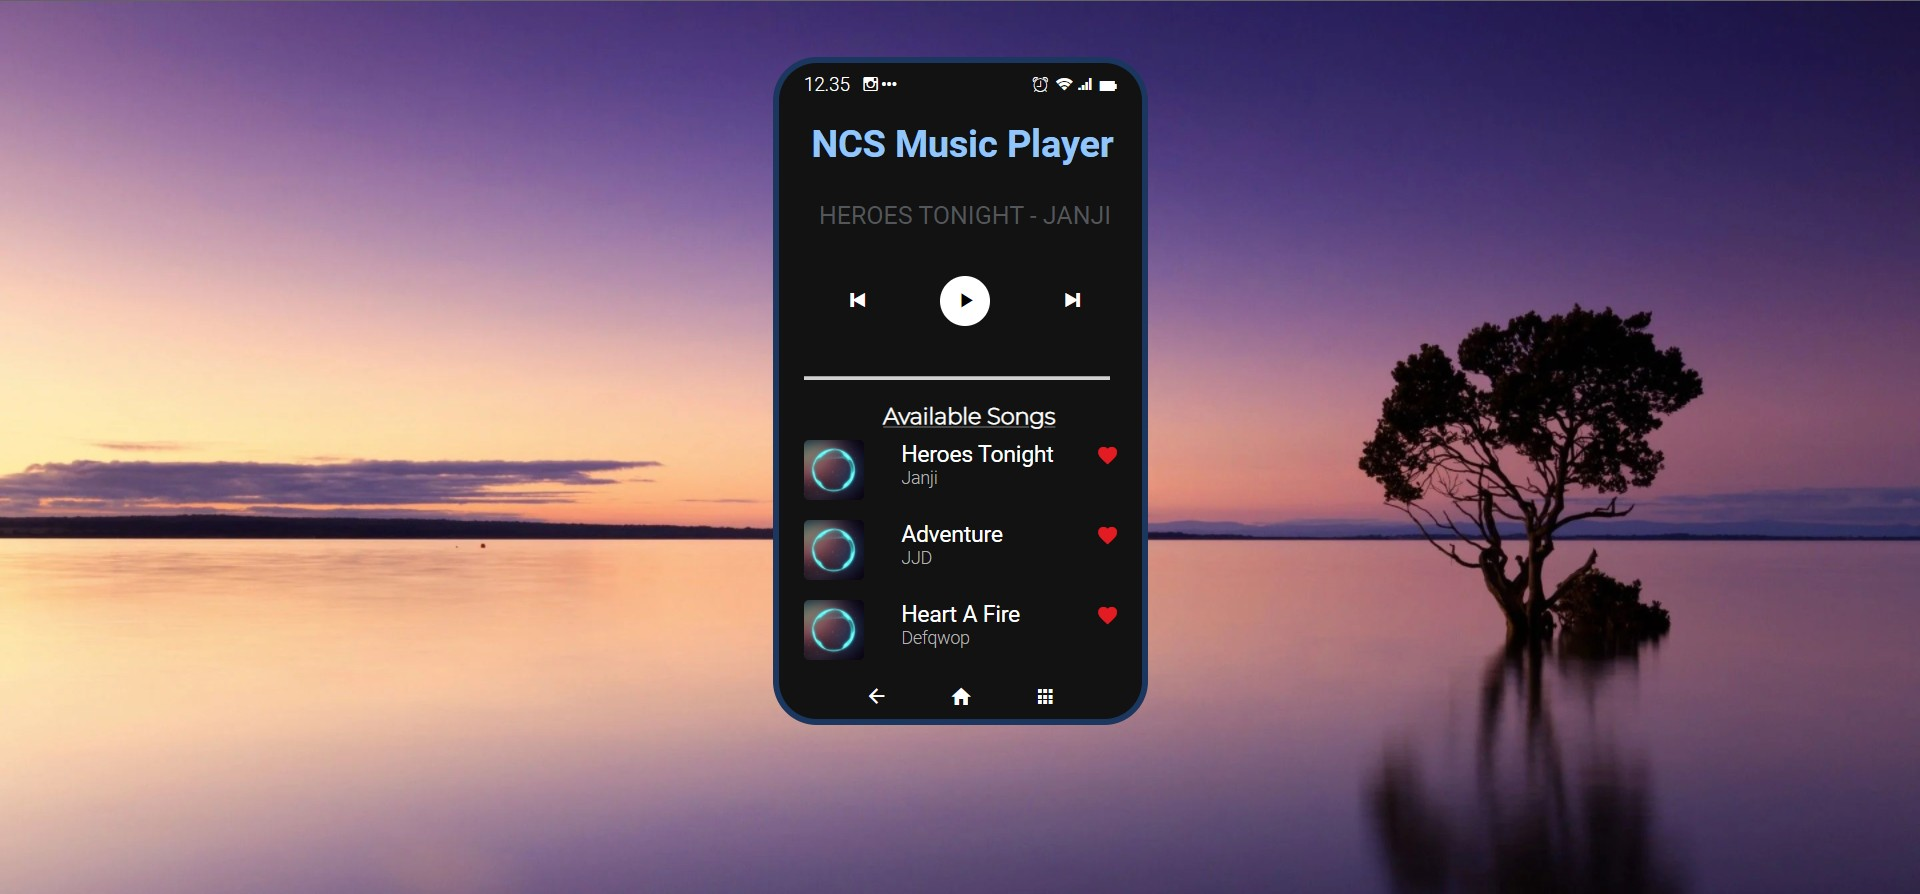
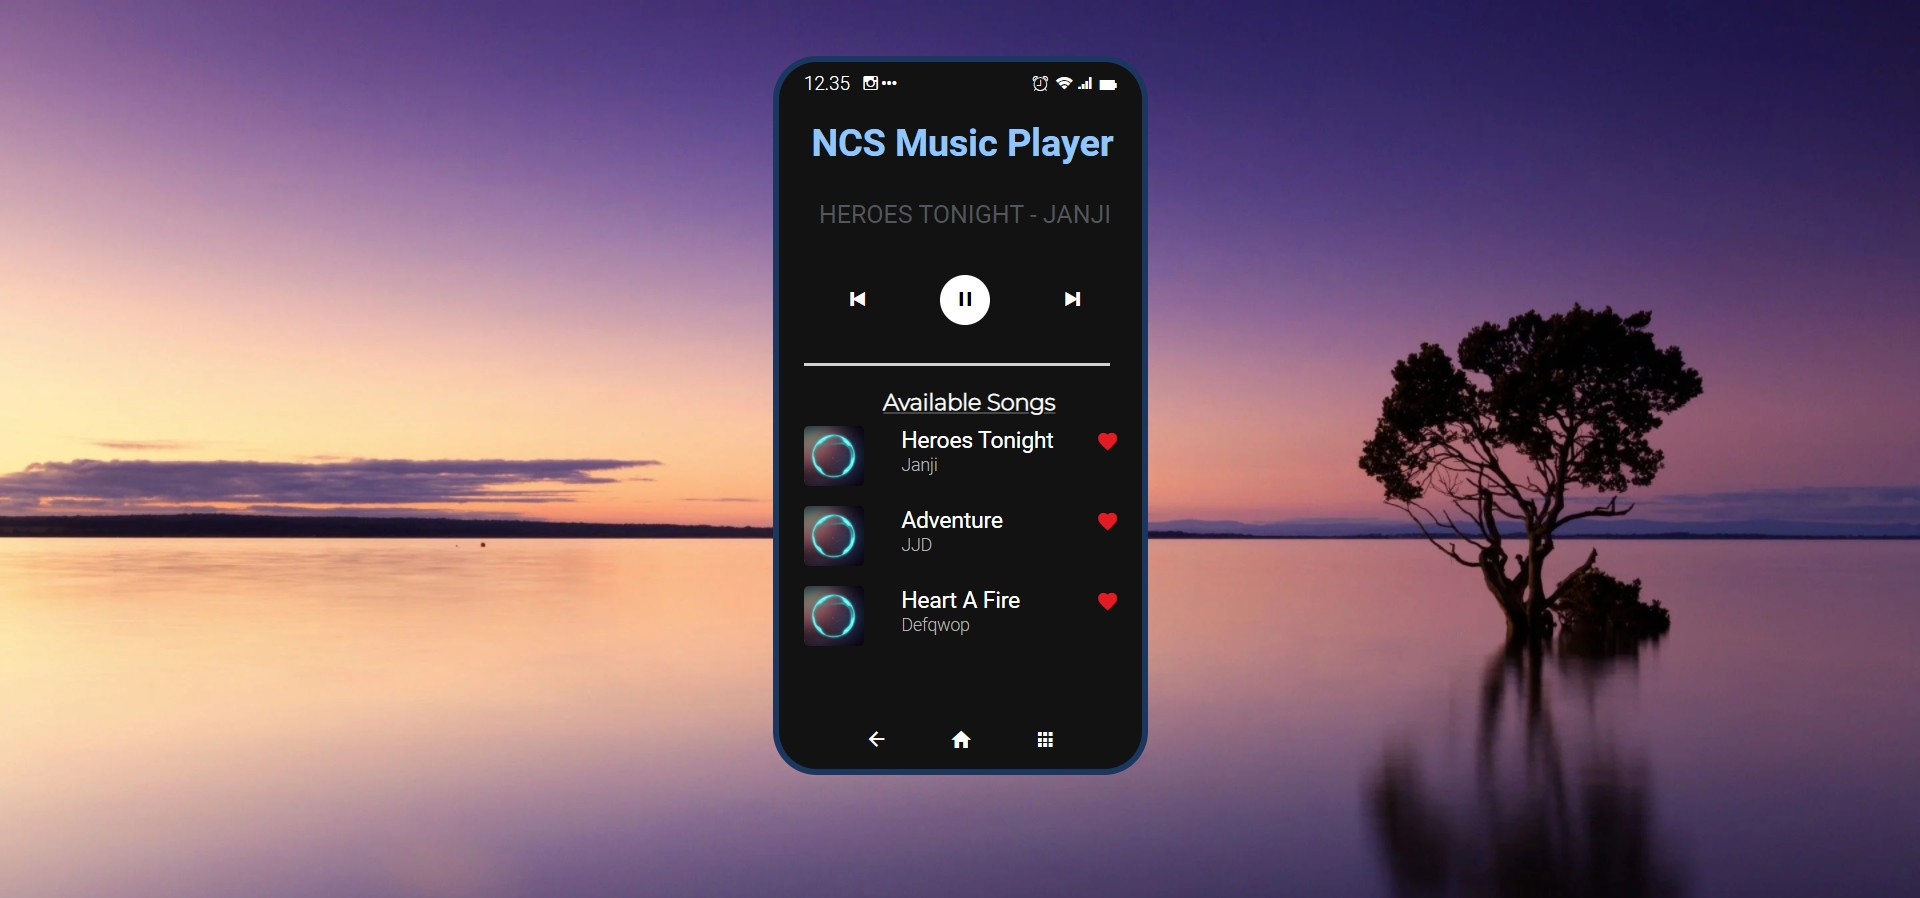
final

diff --git a/src/components/songList.vue b/src/components/songList.vue
@@ -132,80 +132,80 @@
 
 <script>
     export default {
-    data () {
-        return {
-            current: {},
-            index: 0,
-            isPlaying: false,
-            songs: [
-                {
-                title: 'Heroes Tonight',
-                artist: 'Janji',
-                src: require('../assets/one.mp3')
-                },
-                {
-                title: 'Adventure',
-                artist: 'JJD',
-                src: require('../assets/two.mp3')
-                },
-                {
-                title: 'Heart A Fire',
-                artist: 'Defqwop',
-                src: require('../assets/three.mp3')
-                }
-            ],
-            player: new Audio()
-        }
-    },
-    methods: {
-        play(song) {
-            this.$emit("goto", 1);
-            if (typeof song.src != "undefined") {
-                this.current = song;
-                this.player.src = this.current.src;
+        data () {
+            return {
+                current: {},
+                index: 0,
+                isPlaying: false,
+                songs: [
+                    {
+                    title: 'Heroes Tonight',
+                    artist: 'Janji',
+                    src: require('../assets/one.mp3')
+                    },
+                    {
+                    title: 'Adventure',
+                    artist: 'JJD',
+                    src: require('../assets/two.mp3')
+                    },
+                    {
+                    title: 'Heart A Fire',
+                    artist: 'Defqwop',
+                    src: require('../assets/three.mp3')
+                    }
+                ],
+                player: new Audio()
             }
+        },
+        methods: {
+            play(song) {
+                this.$emit("goto", 1);
+                if (typeof song.src != "undefined") {
+                    this.current = song;
+                    this.player.src = this.current.src;
+                }
 
-            this.player.play();
-            this.player.volume = 0.1;
+                this.player.play();
+                this.player.volume = 0.2;
 
-            this.player.addEventListener('ended', function () {
+                this.player.addEventListener('ended', function () {
+                    this.index++;
+                    if (this.index > this.songs.length - 1) {
+                    this.index = 0;
+                    }
+                    this.current = this.songs[this.index];
+                    this.play(this.current);
+                }.bind(this));
+                this.isPlaying = true;
+            },
+
+            pause() {
+                this.player.pause();
+                this.isPlaying = false;
+            },
+
+            next() {
                 this.index++;
                 if (this.index > this.songs.length - 1) {
-                this.index = 0;
+                    this.index = 0;
                 }
                 this.current = this.songs[this.index];
                 this.play(this.current);
-            }.bind(this));
-            this.isPlaying = true;
-        },
-
-        pause() {
-            this.player.pause();
-            this.isPlaying = false;
-        },
-
-        next() {
-            this.index++;
-            if (this.index > this.songs.length - 1) {
-                this.index = 0;
+            },
+            
+            prev() {
+                this.index--;
+                if (this.index < 0) {
+                    this.index = this.songs.length - 1;
+                }
+                this.current = this.songs[this.index];
+                this.play(this.current);
             }
-            this.current = this.songs[this.index];
-            this.play(this.current);
         },
-        
-        prev() {
-            this.index--;
-            if (this.index < 0) {
-                this.index = this.songs.length - 1;
-            }
+        created() {
             this.current = this.songs[this.index];
-            this.play(this.current);
+            this.player.src = this.current.src;
         }
-    },
-    created() {
-        this.current = this.songs[this.index];
-        this.player.src = this.current.src;
-    }
     }
 </script>
 

diff --git a/src/assets/style.css b/src/assets/style.css
@@ -21,7 +21,7 @@ h3 {
     margin: auto;
     top:15px;
     width: 300px;
-    height: 534px;
+    height: 575px;
     overflow: hidden;
     position: relative;
     background-position:center;
@@ -114,14 +114,14 @@ h3 {
 }
 
 .line {
-    margin-top: 40px;
+    margin-top: 30px;
     margin-right: 25px;
     border-bottom: 3px solid rgba( 255,255,255,0.8 );
     cursor: n-resize;
 }
 
 .footer {
-    margin-top: 5px;
+    margin-top: 50px;
     margin-left: 52px;
 }
 
